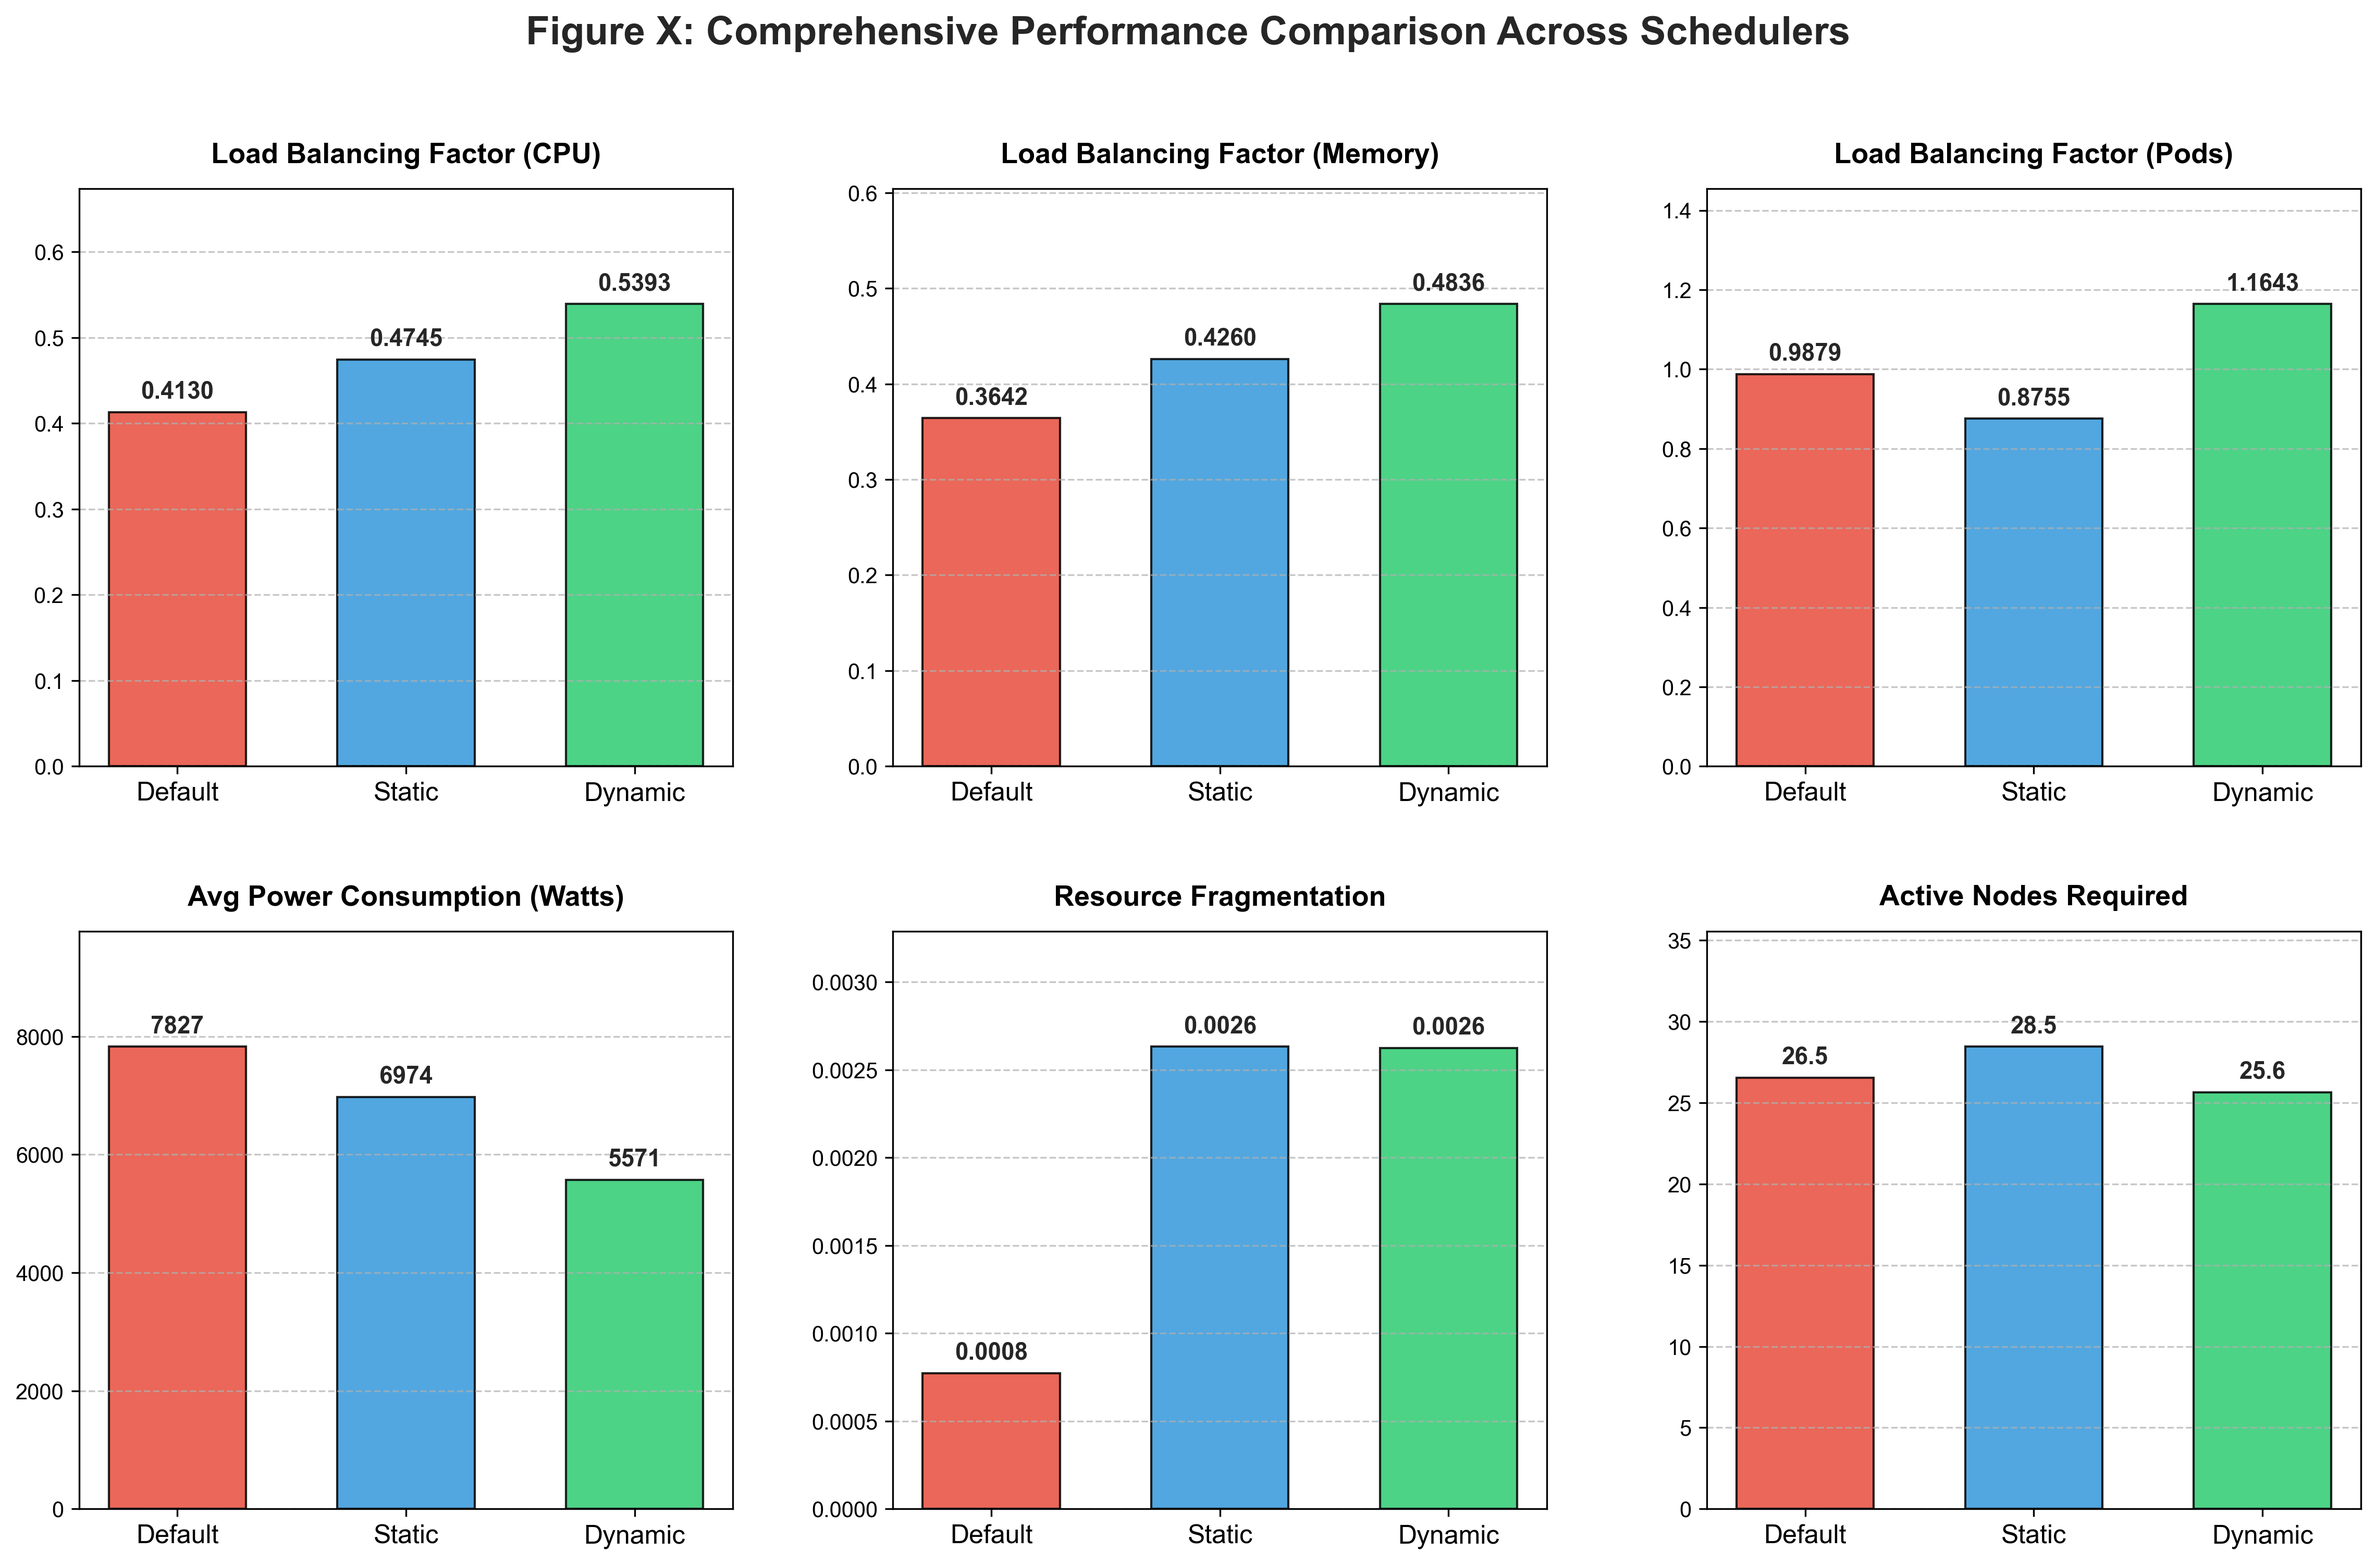
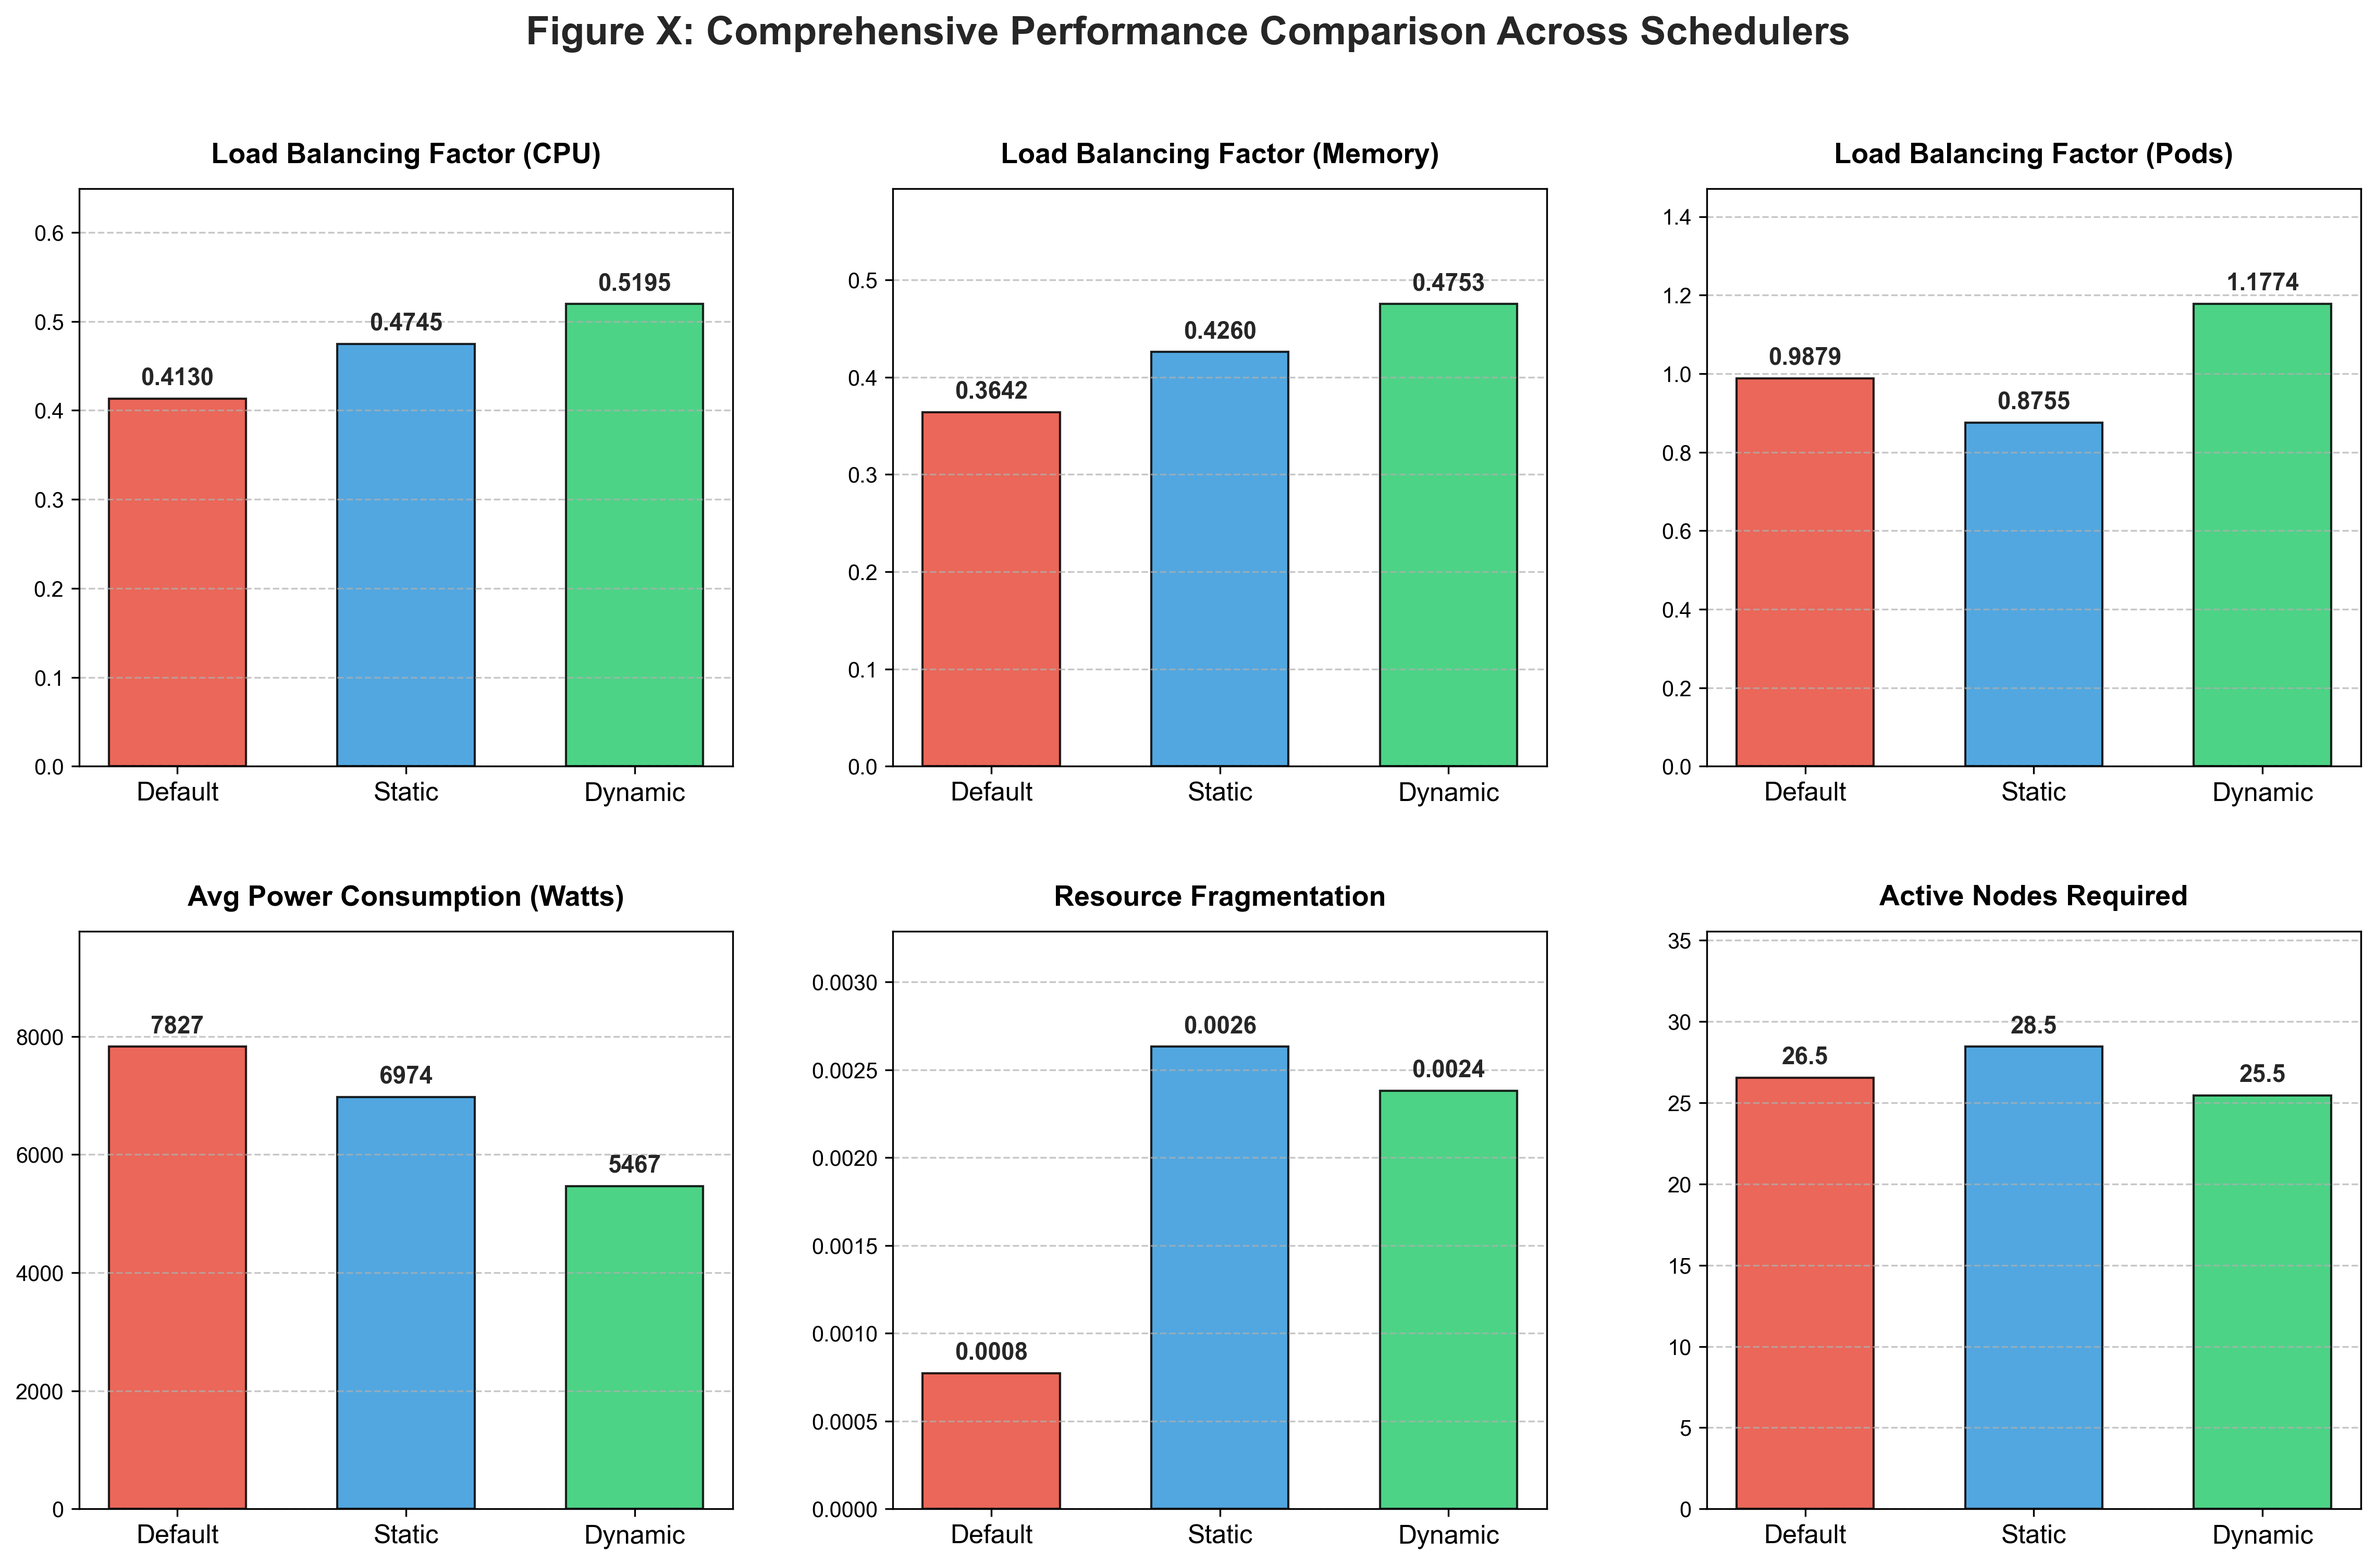
Update output comparisons

diff --git a/output_comparisons/trend_graph.py b/output_comparisons/trend_graph.py
@@ -7,7 +7,7 @@ def main():
     try:
         df_default = pd.read_csv('csvs/default.csv')
         df_static = pd.read_csv('csvs/static.csv')
-        df_dynamic = pd.read_csv('csvs/dynamic.csv')
+        df_dynamic = pd.read_csv('csvs/testing_delete.csv')
     except FileNotFoundError as e:
         print(f"Error: Could not find CSV file. {e}")
         return

diff --git a/output_comparisons/bar_graph.py b/output_comparisons/bar_graph.py
@@ -7,7 +7,7 @@ def main():
     # 1. Load the Data
     df_default = pd.read_csv('csvs/default.csv')
     df_static = pd.read_csv('csvs/static.csv')
-    df_dynamic = pd.read_csv('csvs/dynamic.csv')
+    df_dynamic = pd.read_csv('csvs/dynamic_multi.csv')
 
     # 2. Define the metrics to plot and their readable titles
     metrics = {
